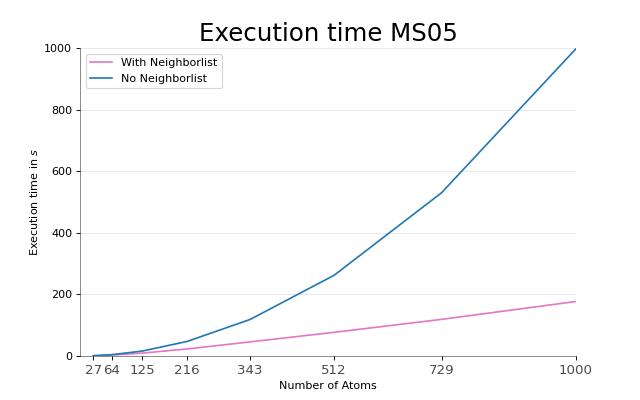
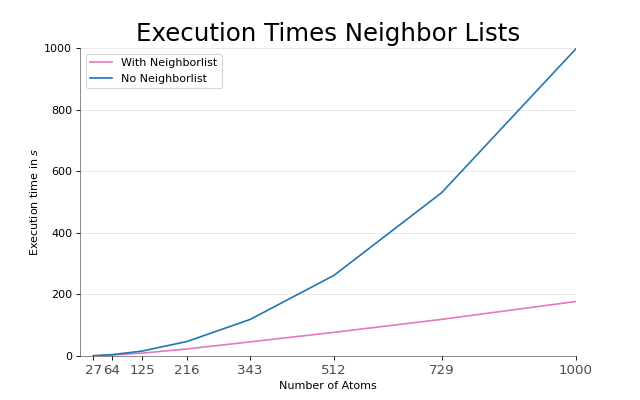
added plot for ms05

Changed region(s): [[0.2188, 0.06, 0.8125, 0.12]]

diff --git a/milestones/05/plot.py b/milestones/05/plot.py
@@ -31,7 +31,7 @@ plt.xticks(df[headers[0]])
 plt.xticks(fontsize=12, alpha=.7)
 plt.xlabel(r'Number of Atoms')
 plt.ylabel(r'Execution time in $s$')
-plt.title("Execution time MS05", fontsize=22)
+plt.title("Execution Times Neighbor Lists", fontsize=22)
 plt.legend(loc="upper left")
 # matplotx.line_labels()
 
